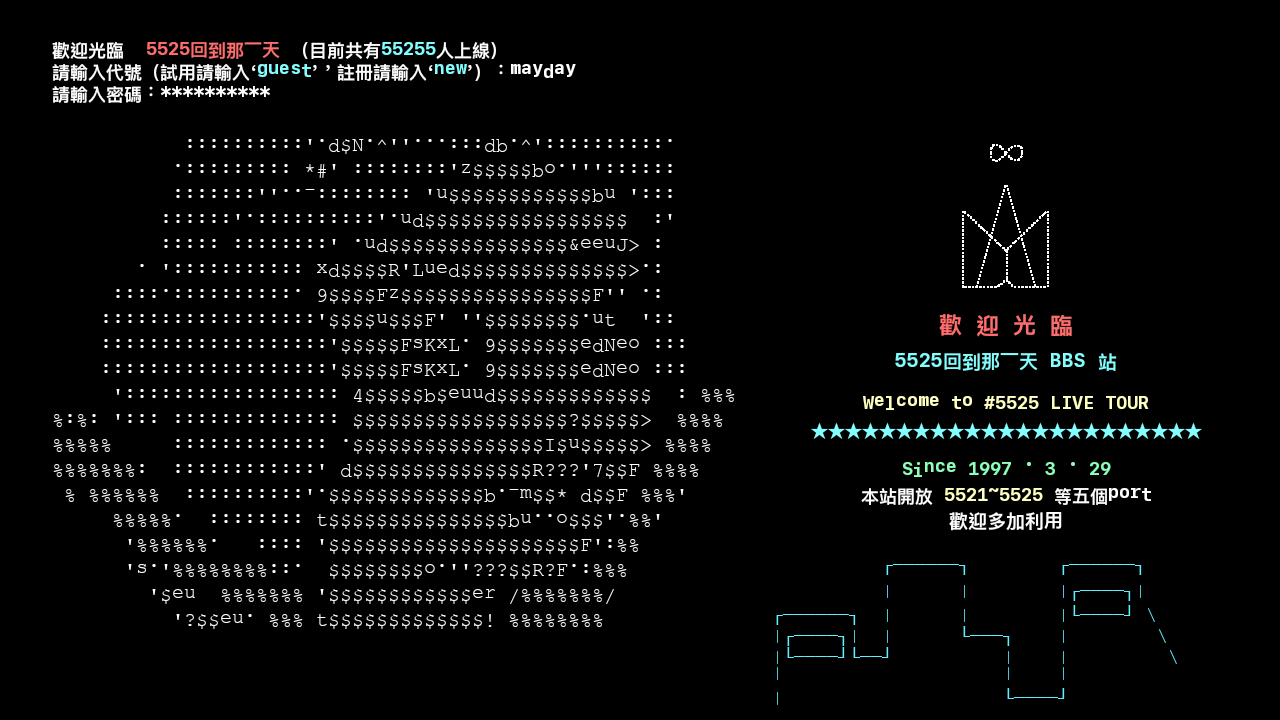
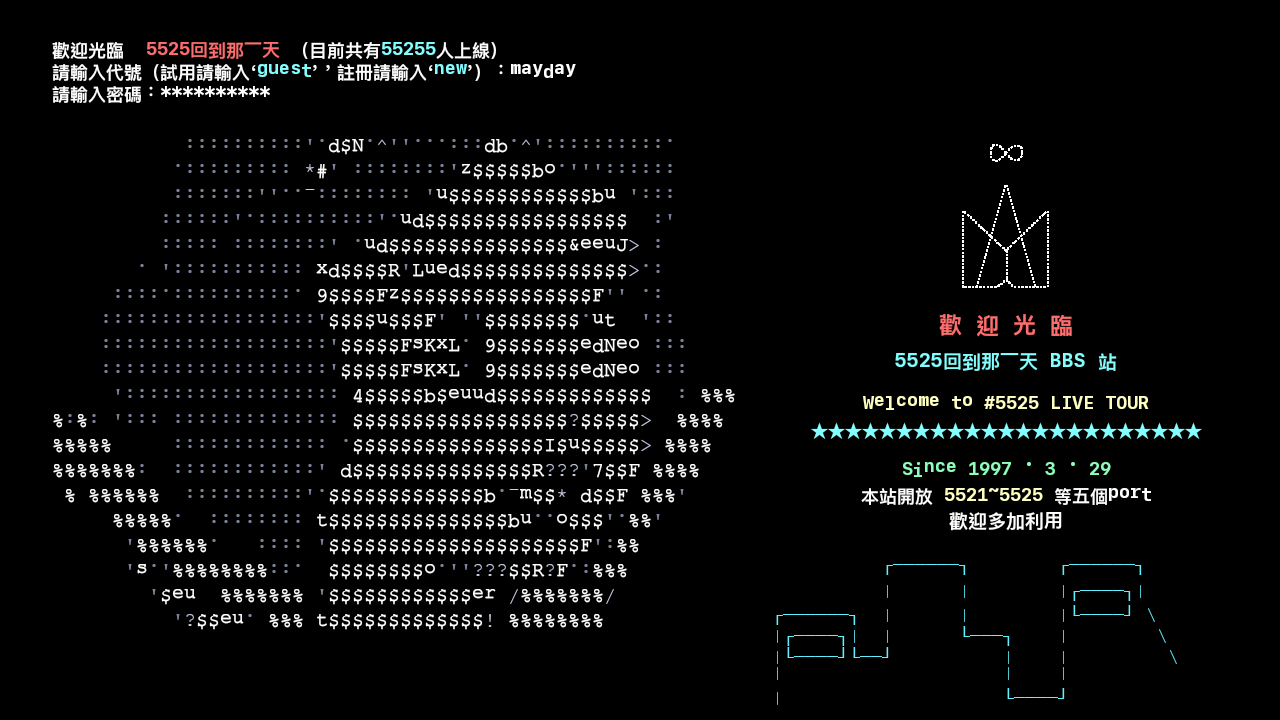
Emphasize dense portrait glyphs with differentiated luminance

diff --git a/render-profile.py b/render-profile.py
@@ -39,9 +39,20 @@ def text(draw, xy, value, size=18, color='white', center=False, art=False):
         x -= width(value, size) / 2
     for char in value:
         f = font(size, ord(char) > 127, art=art)
-        draw.text((x, y), char, font=f, fill=COLORS[color], anchor='lt',
-                  stroke_width=0,
-                  stroke_fill=COLORS[color])
+        fill = COLORS[color]
+        stroke = 0
+        if art and color == 'white':
+            # Preserve the source glyphs and regular Courier face. Sparse
+            # punctuation is background; dense glyphs carry the portrait.
+            if char in ":.'`":
+                fill = '#555d79'
+            elif char in '$%&#' or char.isalnum():
+                fill = '#ffffff'
+                stroke = 0.3
+            else:
+                fill = '#aeb8dc'
+        draw.text((x, y), char, font=f, fill=fill, anchor='lt',
+                  stroke_width=stroke, stroke_fill=fill)
         x += f.getlength(char)
     return x
 
